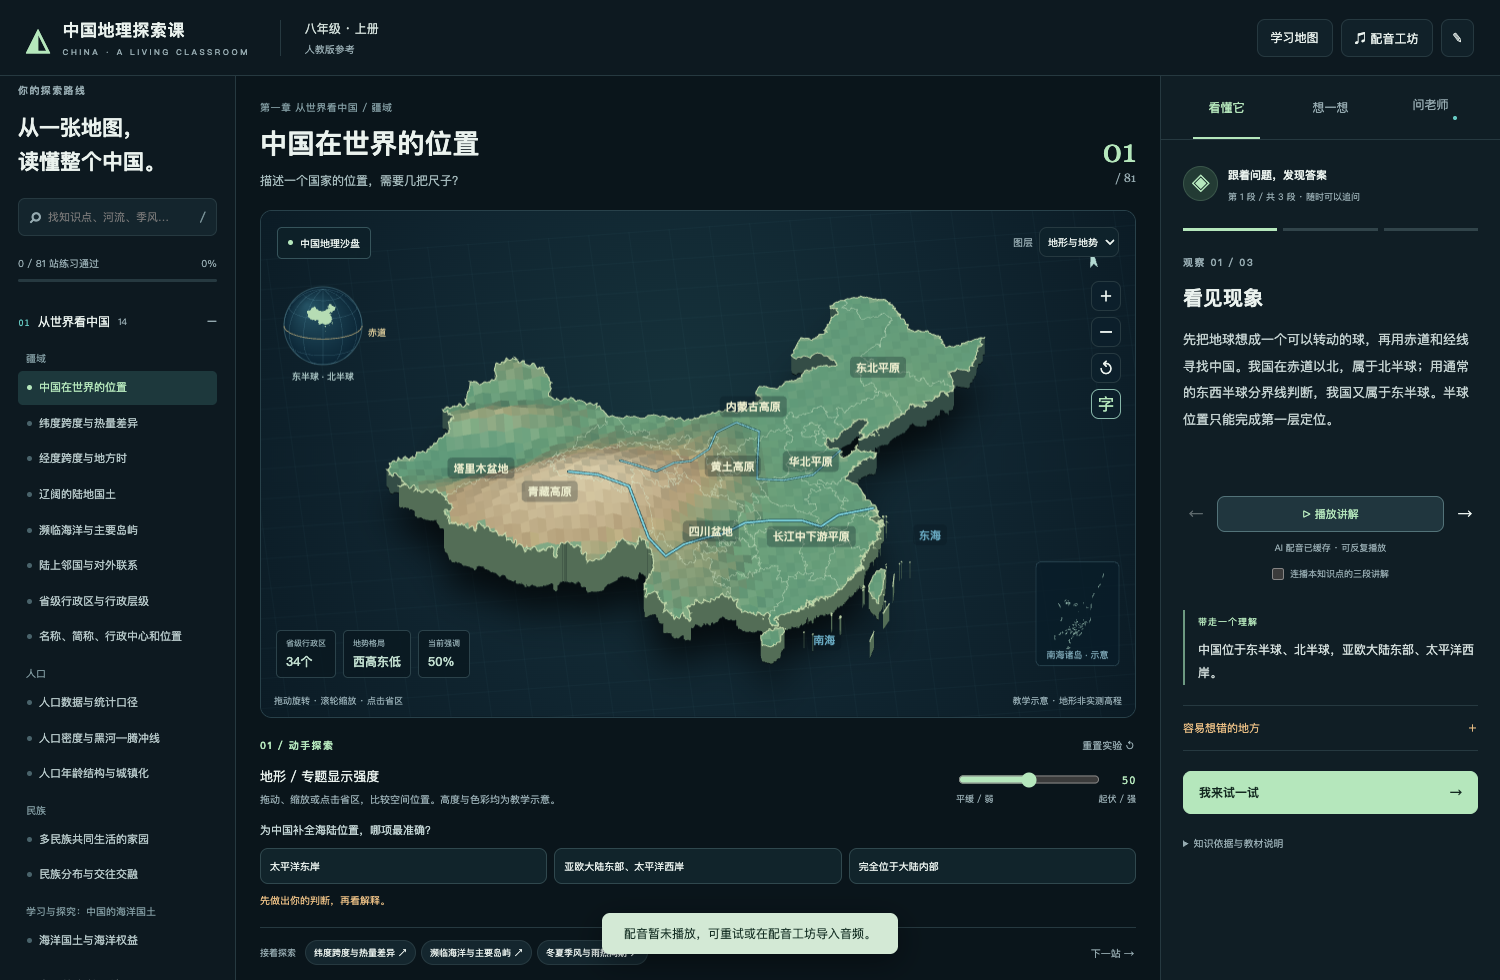
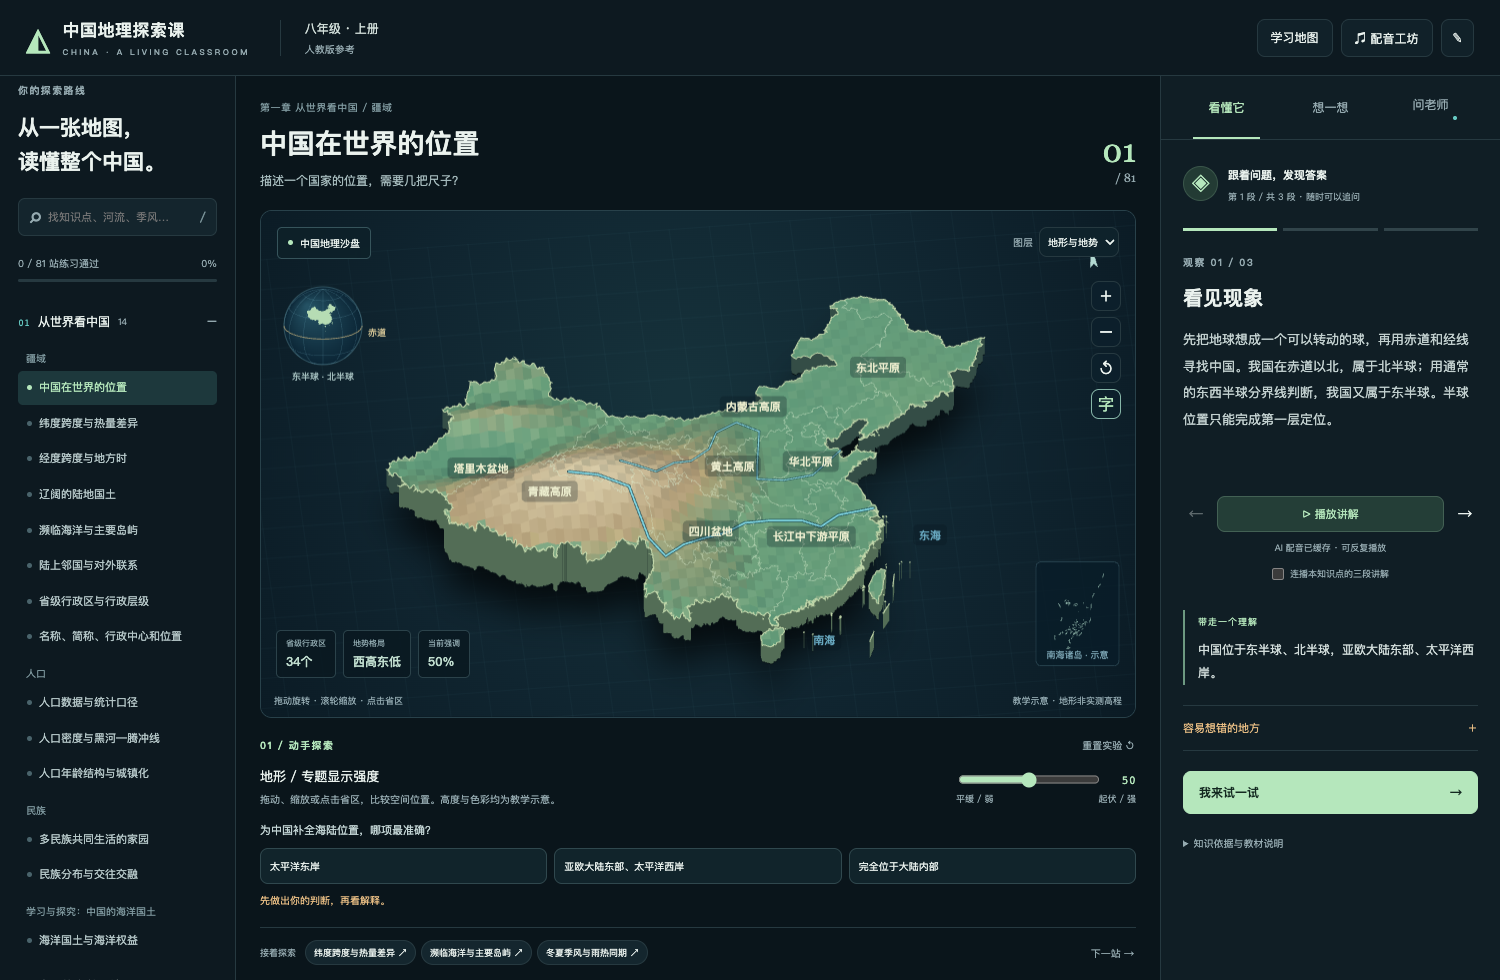
避免边缘缓存不可用时丢失已生成的配音
生成接口直接返回音频，由浏览器保存和播放；缓存失败不再导致整次合成失败。保留固定讲稿、限流和密钥隔离。

Constraint: Sites cache operations can fail at runtime
Confidence: high
Scope-risk: narrow
Tested: Cache-failure regression, MP3 byte roundtrip, browser retry and IndexedDB reload

Changed region(s): [[0.3987, 0.9184, 0.6133, 0.9796]]

diff --git a/index.html b/index.html
@@ -58,7 +58,7 @@
     </section>
   </aside>
 </div>
-<dialog id="workshop" class="dialog"><div class="dialog-heading"><span class="eyebrow">NARRATION STUDIO</span><button class="dialog-close icon" aria-label="关闭">×</button></div><h2>让每一段讲解，拥有好声音。</h2><p>课程支持按需生成中文 AI 配音并缓存生成结果。也可导出讲稿交给你喜欢的 TTS，再把音频命名为讲稿中的 cue ID（例如 <code>知识点ID-01.mp3</code>），批量导入。课程会自动匹配到每一段画面。</p><div class="workshop-actions"><button id="export-scripts" class="primary-button">导出全部讲稿 CSV</button><button id="export-manifest" class="secondary-button">导出配音清单 JSON</button></div><label class="upload-zone">♫<strong>选择或拖入 MP3 / WAV / OGG / M4A 音频</strong><span>本地保存，可一次导入多段；同名文件替换旧配音</span><input id="audio-files" type="file" accept="audio/*,.mp3,.wav,.ogg,.m4a,.webm" multiple></label><p id="audio-import-status" aria-live="polite"></p><div id="audio-inventory" class="audio-inventory"></div><p class="small">导入的音频优先于 AI 配音，保存在当前浏览器。AI 配音只发送这段讲稿给语音服务；本机版缓存于项目目录；在线版使用临时缓存，缓存失效后会重新生成。</p></dialog>
+<dialog id="workshop" class="dialog"><div class="dialog-heading"><span class="eyebrow">NARRATION STUDIO</span><button class="dialog-close icon" aria-label="关闭">×</button></div><h2>让每一段讲解，拥有好声音。</h2><p>课程支持按需生成中文 AI 配音并缓存生成结果。也可导出讲稿交给你喜欢的 TTS，再把音频命名为讲稿中的 cue ID（例如 <code>知识点ID-01.mp3</code>），批量导入。课程会自动匹配到每一段画面。</p><div class="workshop-actions"><button id="export-scripts" class="primary-button">导出全部讲稿 CSV</button><button id="export-manifest" class="secondary-button">导出配音清单 JSON</button></div><label class="upload-zone">♫<strong>选择或拖入 MP3 / WAV / OGG / M4A 音频</strong><span>本地保存，可一次导入多段；同名文件替换旧配音</span><input id="audio-files" type="file" accept="audio/*,.mp3,.wav,.ogg,.m4a,.webm" multiple></label><p id="audio-import-status" aria-live="polite"></p><div id="audio-inventory" class="audio-inventory"></div><p class="small">导入的音频优先于 AI 配音，保存在当前浏览器。AI 配音只发送这段讲稿给语音服务；本机版缓存于项目目录；在线版新生成的音频保存在当前浏览器，也可使用临时边缘缓存。清理浏览器数据后可能需要重新生成。</p></dialog>
 <dialog id="coverage" class="dialog wide-dialog"><div class="dialog-heading"><span class="eyebrow">YOUR LEARNING MAP</span><button class="dialog-close icon" aria-label="关闭">×</button></div><h2>把零散知识，连成一张网。</h2><p id="coverage-edition"></p><div class="causal-chain"><span>位置与人口</span><b>→</b><span>地形 · 气候 · 河流</span><b>→</b><span>资源</span><b>→</b><span>生产生活</span><b>→</b><span>美丽中国</span></div><div id="coverage-stats" class="coverage-stats"></div><div id="coverage-list"></div><button id="export-progress" class="secondary-button">导出学习记录</button></dialog>
 <dialog id="notes" class="dialog"><div class="dialog-heading"><span class="eyebrow">FIELD NOTES</span><button class="dialog-close icon" aria-label="关闭">×</button></div><h2>记下今天的新发现。</h2><p id="note-topic"></p><label for="note-input" class="sr-only">我的发现</label><textarea id="note-input" rows="4" maxlength="2000" placeholder="我发现……因为……下次还想知道……"></textarea><button id="save-note" class="primary-button">保存这条发现</button><div id="notes-list"></div><button id="export-notes" class="secondary-button">导出探索手记</button></dialog>
 <div id="toast" class="toast" role="status"></div>

diff --git a/app.js b/app.js
@@ -109,7 +109,7 @@
     const imported = audioIds.has(step.cue), cached = Boolean(serverClips[step.cue]);
     $('play-narration').disabled = false;
     $('play-narration').textContent = imported || cached ? '▷ 播放讲解' : api.tts?.configured ? '▷ 生成并播放讲解' : '♫ 导入正式配音';
-    $('audio-status').textContent = imported ? `已导入配音 · ${step.cue}` : cached ? 'AI 配音已缓存 · 可反复播放' : api.tts?.configured ? '中文 AI 配音 · 首次点击生成，之后直接播放' : '可先阅读讲解，或导入自己的配音';
+    $('audio-status').textContent = imported ? `浏览器已保存配音 · ${step.cue}` : cached ? 'AI 配音已缓存 · 可反复播放' : api.tts?.configured ? '中文 AI 配音 · 首次点击生成，之后直接播放' : '可先阅读讲解，或导入自己的配音';
     $('guide-status').textContent = `第 ${stepIndex + 1} 段 / 共 ${current.steps.length} 段 · 随时可以追问`;
   }
   function renderInteraction() {
@@ -195,10 +195,18 @@
             $('play-narration').disabled = true; $('play-narration').textContent = '正在生成讲解…'; $('audio-status').textContent = '正在合成中文 AI 配音，请稍候。';
             const response = await fetch('/api/narration', {method:'POST', headers:{'Content-Type':'application/json','X-Sandbox-Token':api.token}, body:JSON.stringify({cue}), signal:AbortSignal.timeout(60000)});
             const result = await response.json(); if (!response.ok) throw new Error(result.error || '生成失败，请重试。');
-            serverClips[cue] = result.url;
+            if (result.audioBase64) {
+              const blob = new Blob([Uint8Array.from(atob(result.audioBase64), c => c.charCodeAt(0))], {type:'audio/mpeg'});
+              try { await saveClip({cue, blob, filename:cue+'.mp3', source:'generated'}); audioIds.add(cue); }
+              catch (_) { toast('浏览器未能保存这段音频，本次仍可播放。'); }
+              if (ticket !== audioTicket) return;
+              audioUrl = URL.createObjectURL(blob); a.src = audioUrl;
+            } else {
+              serverClips[cue] = result.url;
+            }
           }
           if (ticket !== audioTicket) return;
-          a.src = serverClips[cue];
+          if (!a.src) a.src = serverClips[cue];
         }
       }
       if (ticket !== audioTicket) return;
@@ -209,7 +217,7 @@
   function allScripts() { return course.nodes.flatMap(n => n.steps.map((s, i) => ({cue:s.cue, chapter:course.chapters.find(c => c.id === n.chapter).title, topic:n.title, step:i+1, title:s.title, text:s.text, filename:s.cue+'.mp3'}))); }
   function openWorkshop() {
     const scripts = allScripts(); $('audio-import-status').textContent = `已备好 ${scripts.filter(s => audioIds.has(s.cue) || serverClips[s.cue]).length} / ${scripts.length} 段讲解。${api.tts?.configured ? '其他段落可在课程中点击生成。' : ''}`;
-    $('audio-inventory').replaceChildren(...scripts.filter(s => audioIds.has(s.cue) || serverClips[s.cue]).map(s => el('div', '', `✓ ${s.cue} · ${s.topic} · 第${s.step}段 · ${audioIds.has(s.cue)?'已导入':'AI配音已缓存'}`)));
+    $('audio-inventory').replaceChildren(...scripts.filter(s => audioIds.has(s.cue) || serverClips[s.cue]).map(s => el('div', '', `✓ ${s.cue} · ${s.topic} · 第${s.step}段 · ${audioIds.has(s.cue)?'浏览器配音':'AI配音已缓存'}`)));
     if (!$('workshop').open) $('workshop').showModal();
   }
   async function importAudio(files) {

diff --git a/tests/browser-sites.js b/tests/browser-sites.js
@@ -15,16 +15,23 @@ async page => {
   if(bundledDuration<10)throw new Error('Bundled narration failed');
   await page.evaluate(()=>geographyApp.selectNode('monsoon'));
   let requests=0;
+  const audioBase64=(await (await page.request.get('http://127.0.0.1:8768/audio/location-01-6e615d5a9bcd69c5.mp3')).body()).toString('base64');
   await page.route('**/api/narration',async route=>{
     requests++;
-    await route.fulfill({status:200,contentType:'application/json',body:JSON.stringify({url:requests===1?'/audio/evicted.mp3':'/audio/location-01-6e615d5a9bcd69c5.mp3'})});
+    await route.fulfill({status:200,contentType:'application/json',body:JSON.stringify(requests===1?{url:'/audio/evicted.mp3'}:{audioBase64,mimeType:'audio/mpeg',cue:'monsoon-01'})});
   });
   await page.locator('#play-narration').click();
   await page.waitForFunction(()=>document.getElementById('play-narration').textContent.includes('重试'));
   await page.locator('#play-narration').click();
   await page.waitForFunction(()=>document.getElementById('narration-audio').currentTime>.1);
   if(requests!==2)throw new Error('Evicted narration did not regenerate on retry');
+  await page.reload();await page.waitForFunction(()=>window.geographyApp);await page.evaluate(()=>geographyApp.selectNode('monsoon'));
+  if(!await page.evaluate(()=>geographyApp.getState().audioIds.includes('monsoon-01')))throw new Error('Generated audio was not saved');
+  await page.locator('#play-narration').click();await page.waitForFunction(()=>document.getElementById('narration-audio').currentTime>.1);
+  if(requests!==2)throw new Error('Saved generated audio caused another generation');
   await page.unroute('**/api/narration');
+  await page.evaluate(()=>new Promise((resolve,reject)=>{const req=indexedDB.open('china-geography-audio-v1',1);req.onsuccess=()=>{const db=req.result,tx=db.transaction('clips','readwrite');tx.objectStore('clips').delete('monsoon-01');tx.oncomplete=()=>{db.close();resolve();};tx.onerror=()=>reject(tx.error);};}));
+  await page.reload();await page.waitForFunction(()=>window.geographyApp);
   await page.evaluate(()=>geographyApp.selectNode('location'));
   await page.screenshot({path:'evidence/sites-desktop.png'});
   await page.setViewportSize({width:390,height:844});
@@ -33,5 +40,5 @@ async page => {
   await page.screenshot({path:'evidence/sites-mobile.png'});
   await page.unroute('**/api/status');
   if(errors.length)throw new Error(errors.join(';'));
-  return {workerBundleLoads:true,bundledNarrationSeconds:bundledDuration,evictedAudioRetry:true,mobileNoOverflow:true,errors};
+  return {workerBundleLoads:true,bundledNarrationSeconds:bundledDuration,evictedAudioRetry:true,generatedAudioPersists:true,mobileNoOverflow:true,errors};
 }

diff --git a/README.md b/README.md
@@ -46,7 +46,7 @@ python3 server.py --open
 
 ## 中文配音
 
-[OpenRouter TTS](https://openrouter.ai/docs/guides/overview/multimodal/tts) 已接入，默认使用 `qwen/qwen-audio-3.0-tts-plus`、`longanlingxin` 声音。第一次点击发送当前固定讲稿生成 MP3。本机版保存到项目目录；Sites 版本使用临时边缘缓存，缓存失效后再次播放可能重新合成。首次生成需要网络并使用账户额度。第一知识点的三段已经生成；其余段落按需生成。
+[OpenRouter TTS](https://openrouter.ai/docs/guides/overview/multimodal/tts) 已接入，默认使用 `qwen/qwen-audio-3.0-tts-plus`、`longanlingxin` 声音。第一次点击发送当前固定讲稿生成 MP3。本机版保存到项目目录；Sites 版本新生成的音频保存到当前浏览器，并尽可能使用临时边缘缓存；清理浏览器数据且边缘缓存失效后可能重新合成。首次生成需要网络并使用账户额度。第一知识点的三段已经生成；其余段落按需生成。
 
 缓存文件名由讲稿内容、模型和声音共同决定，修改讲稿后不会误用旧音频。本机版可用 `OPENROUTER_TTS_MODEL` 和 `OPENROUTER_TTS_VOICE` 替换为已支持的模型/声音，再重启本机服务。声音风格仍可按孩子试听反馈调整；不使用浏览器系统朗读代替正式 TTS。
 
@@ -56,7 +56,7 @@ python3 server.py --open
 2. 生成 MP3/WAV/OGG/M4A/WebM，文件名按 cue 编号，如 `location-01.mp3`。
 3. 批量导入。文件在此浏览器的 IndexedDB 保存，优先于同段 AI 配音。单文件上限50MB。导入音频不上传。
 
-项目的 `narration/` 另附完整讲稿清单。音频以段落为单位同步到讲解步骤；不是逐字字幕或自动口型同步。连续播放只推进当前知识点，切换课程会停止旧音频。
+项目的 `narration/` 另附完整讲稿清单。在线新生成的配音通过服务器返回音频内容，浏览器保存到IndexedDB后播放；不依赖边缘缓存才能播放。音频以段落为单位同步到讲解步骤；不是逐字字幕或自动口型同步。连续播放只推进当前知识点，切换课程会停止旧音频。
 
 ## 教材和地图边界
 

diff --git a/evidence/SITES-DEPLOYMENT.md b/evidence/SITES-DEPLOYMENT.md
@@ -8,3 +8,5 @@
 - 课程结构和计算实验回归通过。全课程原始验证见ACCEPTANCE.md，部署接口验证不代替教材逐页核对。
 
 所有者私密访问由Sites平台处理；GitHub源码公开。密钥存放于Sites runtime secret，源码仅包含变量名称。Cache API是临时缓存，不是持久文件；Worker限流是实例级，不是全局费用上限。
+
+首次线上验证发现配音生成后的边缘缓存操作抛错。修订为缓存异常可降级，生成接口直接返回音频内容，浏览器保存至IndexedDB后播放。已验证缓存读写异常、缓存不存在、生成音频刷新后可播放且不重复请求。
